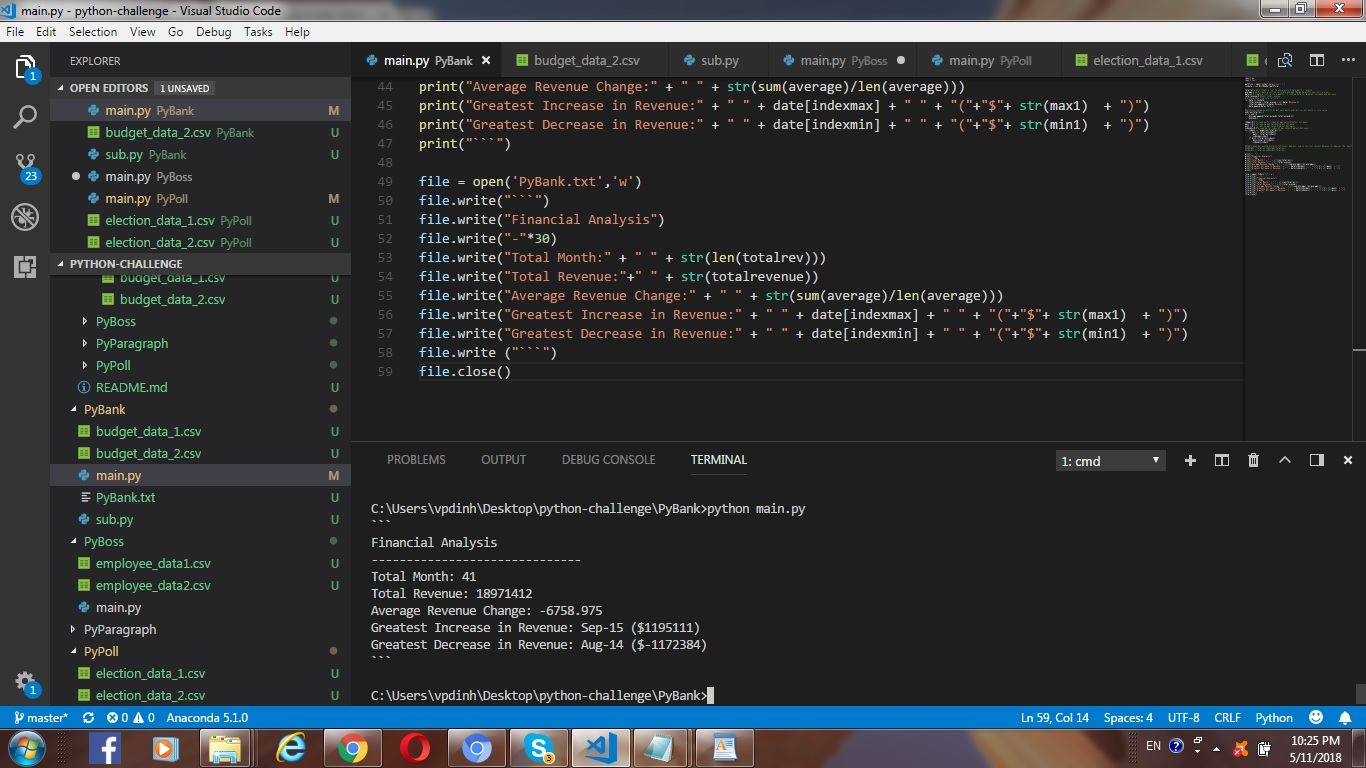
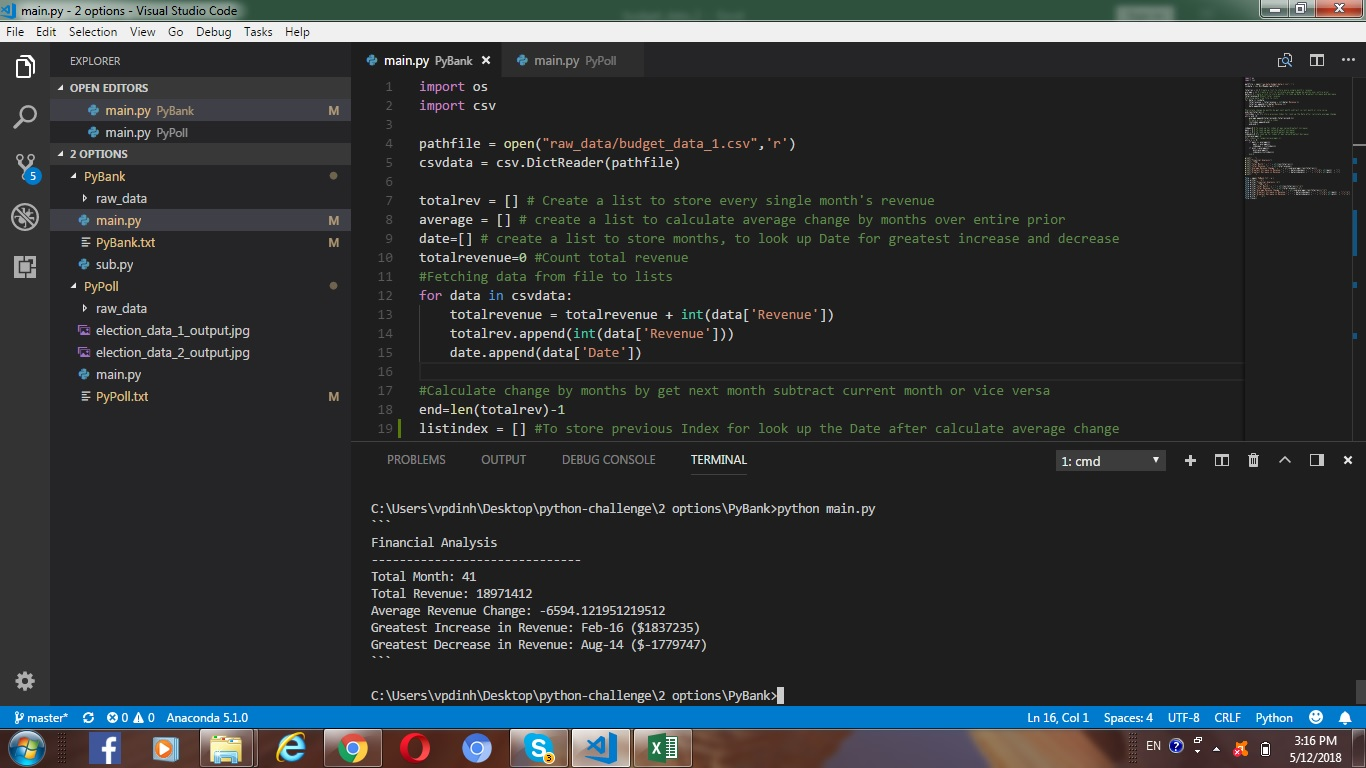
Updating homework

diff --git a/2 options/PyBank/main.py b/2 options/PyBank/main.py
@@ -1,7 +1,7 @@
 import os
 import csv
 
-pathfile = open("raw_data/budget_data_1.csv",'r')
+pathfile = open("raw_data/budget_data_2.csv",'r')
 csvdata = csv.DictReader(pathfile)
 
 totalrev = [] # Create a list to store every single month's revenue
@@ -16,32 +16,34 @@ for data in csvdata:
 
 #Calculate change by months by get next month subtract current month or vice versa
 end=len(totalrev)-1
+listindex = [] #To store previous Index for look up the Date after calculate average change
 while end >0:
-    average.append(totalrev[end]-totalrev[end-1])    
+    average.append(totalrev[end]-totalrev[end-1]) 
+    #create a list to store index   
+    listindex.append(end)
     end=end-1
 
 indmax=0 # To Look up for index of max value(Greatest increase)
 max1 = 0 # To look up max value(Greatest increase)
 min1 = 0 # To look up max value(Greatest decrease)
 indexmin=0 #To Look up for index of max value(Greatest decrease)
-for index1 in range(len(totalrev)-1):
-    if max1 <= totalrev[index1]:
-        max1 = totalrev[index1]
-        indexmax=index1
-    if min1 >=totalrev[index1]:
-        min1=totalrev[index1]
-        indexmin=index1
-    
-#Simple ways by reusing build-in functions: max,min, sum on the list contain Revenue to come out the results        
-#indexmax = totalrev.index(max(totalrev))
-#indexmin = totalrev.index(min(totalrev))
+i=len(average)-1
+#for index1 in range(len(average)-1):
+while i >= 0:
+    if max1 <= average[i]:
+        max1 = average[i]
+        indexmax = listindex[i]
+    if min1 >=average[i]:
+        min1=average[i]
+        indexmin=listindex[i]
+    i=i-1
 
 print("```")
 print("Financial Analysis")
 print("-"*30)
 print("Total Month:" + " " + str(len(totalrev)))
 print("Total Revenue:"+" " + str(totalrevenue))
-print("Average Revenue Change:" + " " + str(sum(average)/len(average)))
+print("Average Revenue Change:" + " " + str(sum(average)/len(totalrev)))
 print("Greatest Increase in Revenue:" + " " + date[indexmax] + " " + "("+"$"+ str(max1)  + ")")
 print("Greatest Decrease in Revenue:" + " " + date[indexmin] + " " + "("+"$"+ str(min1)  + ")")
 print("```")
@@ -52,7 +54,7 @@ file.write("Financial Analysis \n")
 file.write("-"*30+"\n") 
 file.write("Total Month:" + " " + str(len(totalrev))+"\n")
 file.write("Total Revenue:"+" " + str(totalrevenue)+"\n")
-file.write("Average Revenue Change:" + " " + str(sum(average)/len(average))+"\n")
+file.write("Average Revenue Change:" + " " + str(sum(average)/len(totalrev))+"\n")
 file.write("Greatest Increase in Revenue:" + " " + date[indexmax] + " " + "("+"$"+ str(max1)  + ")"+"\n")
 file.write("Greatest Decrease in Revenue:" + " " + date[indexmin] + " " + "("+"$"+ str(min1)  + ")"+"\n")
 file.write ("```\n")
